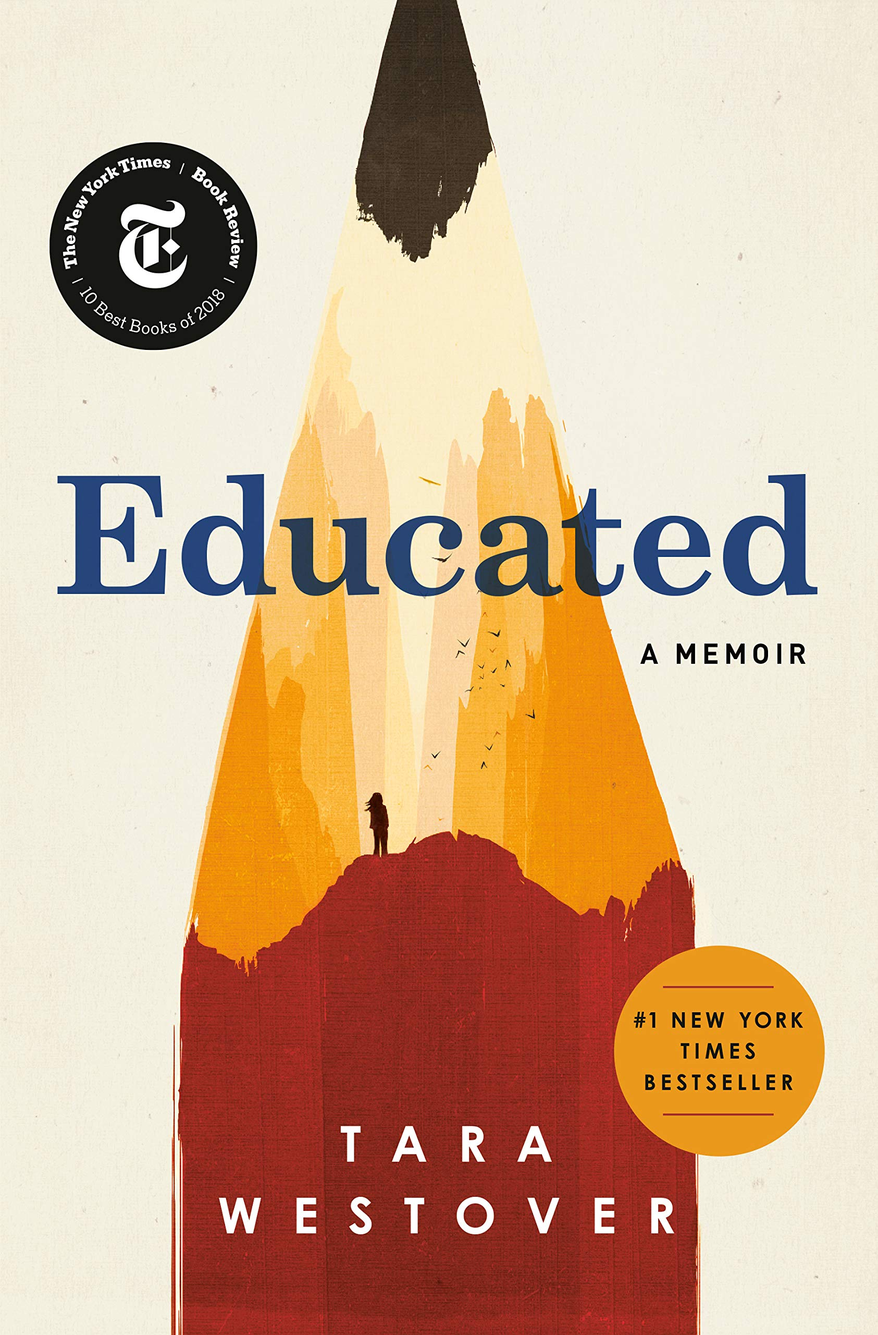
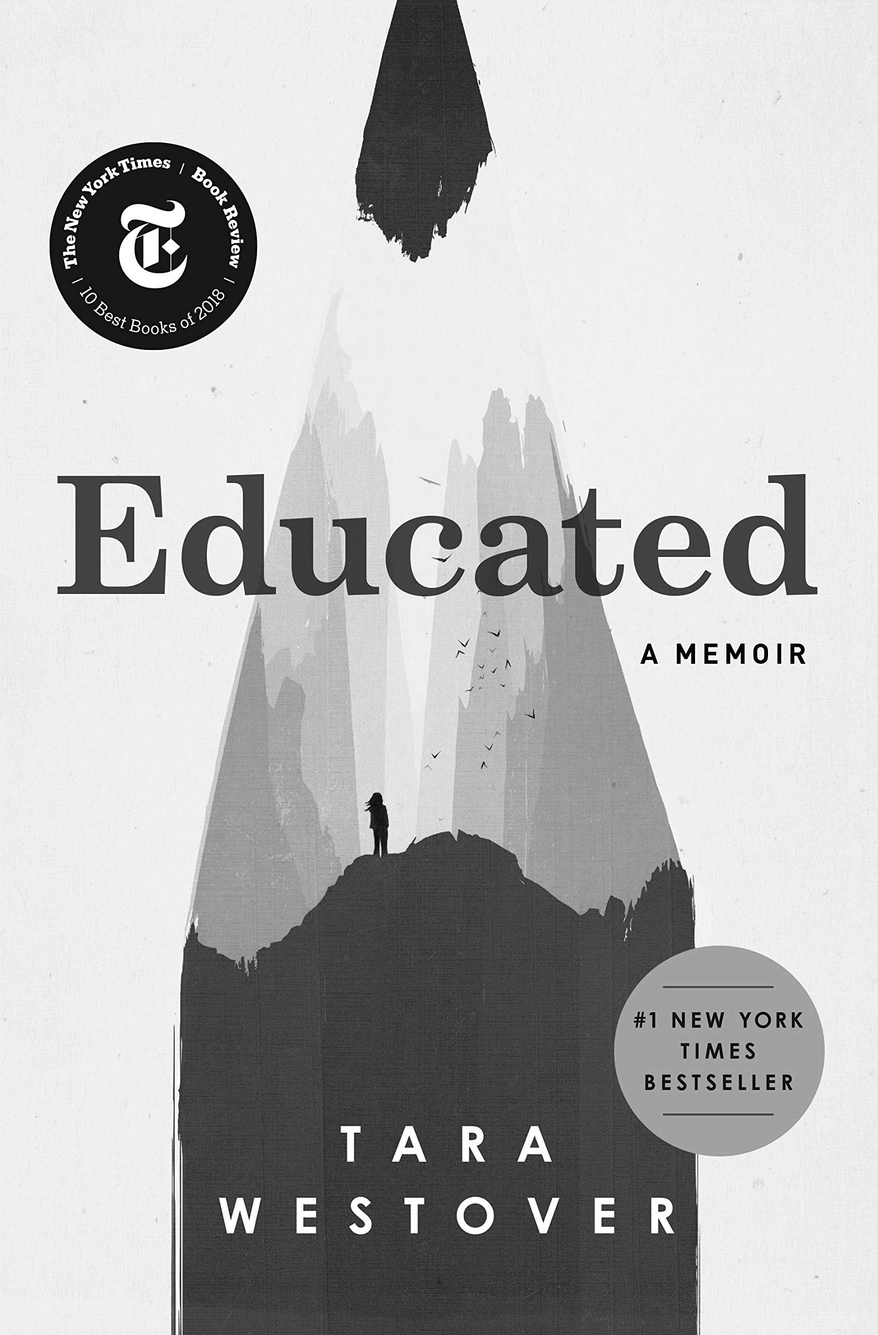
changed book covers to grayscale to match theme.

diff --git a/index.html b/index.html
@@ -143,7 +143,7 @@
 								<a href="https://www.amazon.com/Infidel-Ayaan-Hirsi-Ali/dp/0743289692/ref=tmm_pap_swatch_0?_encoding=UTF8&qid=&sr="target="_blank"
 									class="portrait"><img src="infidel.jpg" alt="" /></a>
 								<a href="https://www.amazon.com/Little-Women-Louisa-May-Alcott/dp/1503280292" class="portrait">
-									<img src="little-women.jpeg" alt="" /></a>
+									<img src="little-women.jpg" alt="" /></a>
 								<a href="https://www.amazon.com/Programmed-Inequality-Discarded-Technologists-Computing/dp/0262035545"
 									class="portrait"><img src="programmed-inequality.jpg" alt="" /></a>
 							</div>
